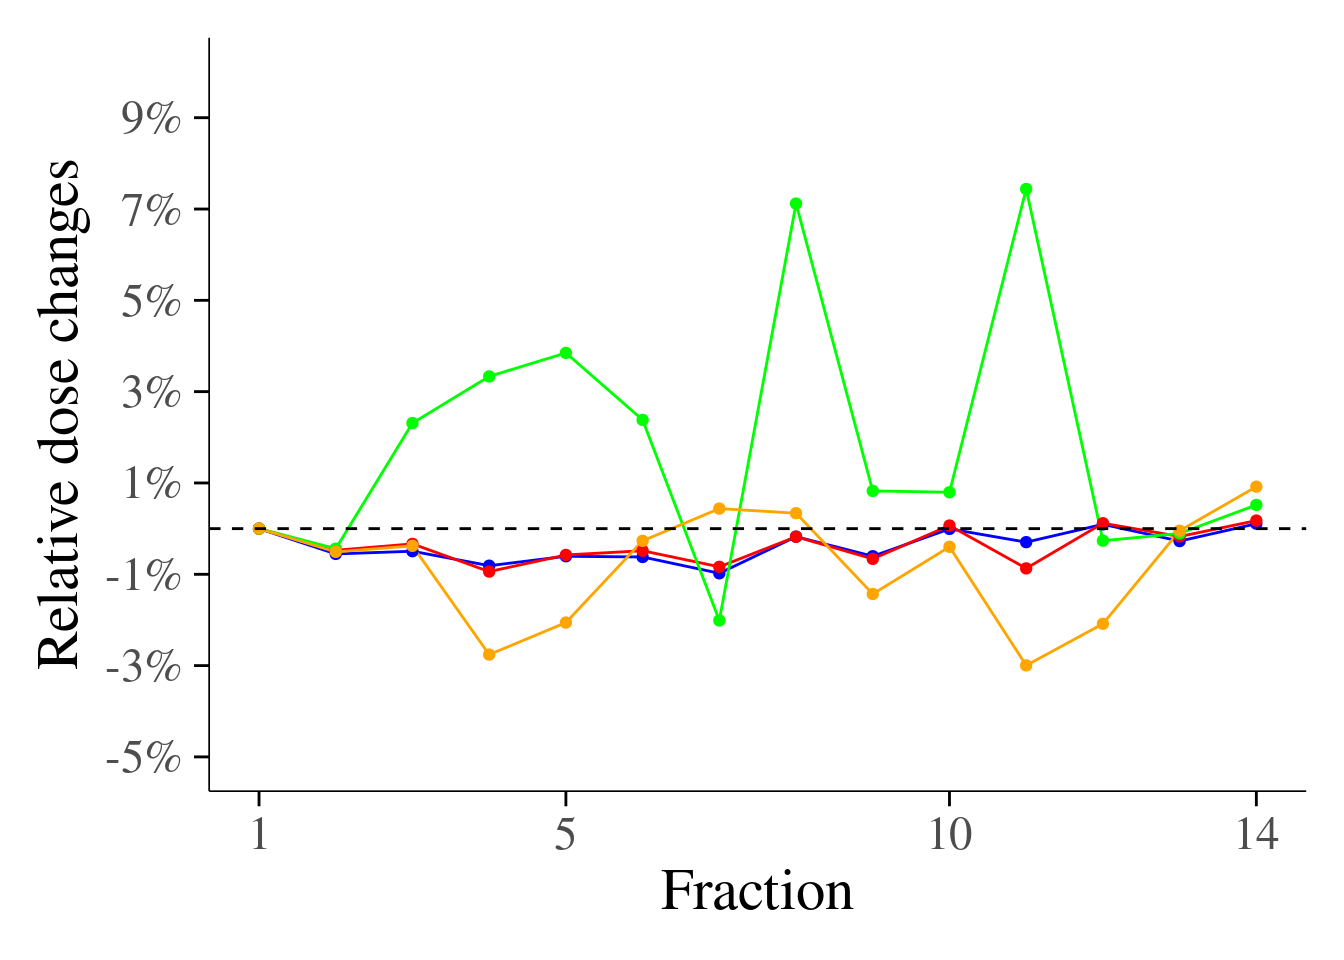
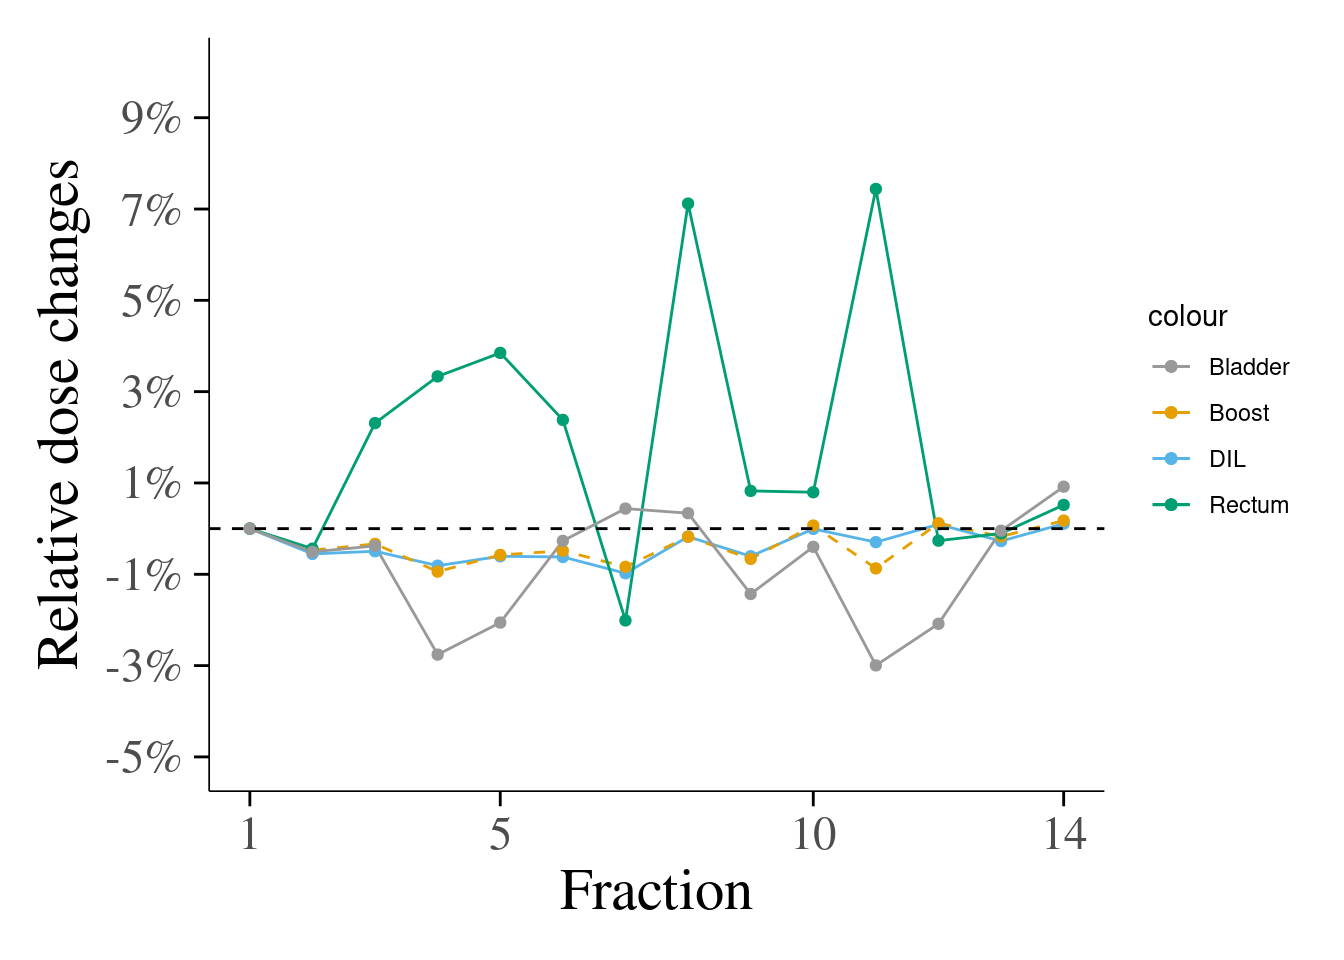
Build site.

diff --git a/docs/relativ.html b/docs/relativ.html
@@ -513,16 +513,16 @@ This reproducible <a href="http://rmarkdown.rstudio.com">R Markdown</a> analysis
 <div class="panel panel-default">
 <div class="panel-heading">
 <p class="panel-title">
-<a data-toggle="collapse" data-parent="#workflowr-checks" href="#strongRepositoryversionstrongahrefhttpsgithubcomdssrttnTesttree818bb4fb8f9efbc712783611d7f66f19ecb0ab3etargetblank818bb4fa"> <span class="glyphicon glyphicon-ok text-success" aria-hidden="true"></span> <strong>Repository version:</strong> <a href="https://github.com/dssrttn/Test/tree/818bb4fb8f9efbc712783611d7f66f19ecb0ab3e" target="_blank">818bb4f</a> </a>
+<a data-toggle="collapse" data-parent="#workflowr-checks" href="#strongRepositoryversionstrongahrefhttpsgithubcomdssrttnTesttreef5dc27a5d22ee65aba16500de01fa5284152e5b2targetblankf5dc27aa"> <span class="glyphicon glyphicon-ok text-success" aria-hidden="true"></span> <strong>Repository version:</strong> <a href="https://github.com/dssrttn/Test/tree/f5dc27a5d22ee65aba16500de01fa5284152e5b2" target="_blank">f5dc27a</a> </a>
 </p>
 </div>
[2 lines of base64/hex data omitted]
 <div class="panel-body">
 <p>
 Great! You are using Git for version control. Tracking code development and connecting the code version to the results is critical for reproducibility.
 </p>
 <p>
-The results in this page were generated with repository version <a href="https://github.com/dssrttn/Test/tree/818bb4fb8f9efbc712783611d7f66f19ecb0ab3e" target="_blank">818bb4f</a>. See the <em>Past versions</em> tab to see a history of the changes made to the R Markdown and HTML files.
+The results in this page were generated with repository version <a href="https://github.com/dssrttn/Test/tree/f5dc27a5d22ee65aba16500de01fa5284152e5b2" target="_blank">f5dc27a</a>. See the <em>Past versions</em> tab to see a history of the changes made to the R Markdown and HTML files.
 </p>
 <p>
 Note that you need to be careful to ensure that all relevant files for the analysis have been committed to Git prior to generating the results (you can use <code>wflow_publish</code> or <code>wflow_git_commit</code>). workflowr only checks the R Markdown file, but you know if there are other scripts or data files that it depends on. Below is the status of the Git repository when the results were generated:
@@ -589,6 +589,40 @@ Message
 </tr>
 </thead>
 <tbody>
+<tr>
+<td>
+Rmd
+</td>
+<td>
+<a href="https://github.com/dssrttn/Test/blob/f5dc27a5d22ee65aba16500de01fa5284152e5b2/analysis/relativ.Rmd" target="_blank">f5dc27a</a>
+</td>
+<td>
+Mein Vorname
+</td>
+<td>
+2020-07-19
+</td>
+<td>
+color blind colors
+</td>
+</tr>
+<tr>
+<td>
+html
+</td>
+<td>
+<a href="https://rawcdn.githack.com/dssrttn/Test/8d64b6fddeefab9626afefc92f394bf9a665e109/docs/relativ.html" target="_blank">8d64b6f</a>
+</td>
+<td>
+Mein Vorname
+</td>
+<td>
+2020-07-19
+</td>
+<td>
+Build site.
+</td>
+</tr>
 <tr>
 <td>
 Rmd
@@ -2024,6 +2058,43 @@ Mein Vorname
   xlab(&quot;Fraction&quot;) + # X-Achsen-Beschriftung
   ylab(&quot;Relative dose changes&quot;)   #+ # Y-Achsen-Beschriftung</code></pre>
 <p><img src="figure/relativ.Rmd/Relative%20dose%20changes%20in%20percent%20from%20the%201st%20fraction%20with%20DIL%20and%20boost%20mean%20POINTS-1.png" width="672" style="display: block; margin: auto;" /></p>
+<p>
+<button type="button" class="btn btn-default btn-xs btn-workflowr btn-workflowr-fig" data-toggle="collapse" data-target="#fig-no-spaces-Relative-dose-changes-in-percent-from-the-1st-fraction-with-DIL-and-boost-mean-POINTS-1">
+Past versions of “Relative dose changes in percent from the 1st fraction with DIL and boost mean POINTS-1.png”
+</button>
+</p>
+<div id="fig-no-spaces-Relative-dose-changes-in-percent-from-the-1st-fraction-with-DIL-and-boost-mean-POINTS-1" class="collapse">
+<div class="table-responsive">
+<table class="table table-condensed table-hover">
+<thead>
+<tr>
+<th>
+Version
+</th>
+<th>
+Author
+</th>
+<th>
+Date
+</th>
+</tr>
+</thead>
+<tbody>
+<tr>
+<td>
+<a href="https://github.com/dssrttn/Test/blob/8d64b6fddeefab9626afefc92f394bf9a665e109/docs/figure/relativ.Rmd/Relative dose changes in percent from the 1st fraction with DIL and boost mean POINTS-1.png" target="_blank">8d64b6f</a>
+</td>
+<td>
+Mein Vorname
+</td>
+<td>
+2020-07-19
+</td>
+</tr>
+</tbody>
+</table>
+</div>
+</div>
 <pre class="r"><code>#print(p)
     
 
@@ -2325,17 +2396,22 @@ Mein Vorname
 </table>
 </div>
 </div>
-<pre class="r"><code>ggplot() + 
-  geom_line(data = DIL_mean_rel_table, aes(x = 1:14, y = DIL_mean_rel$relchange), color = &quot;blue&quot;) +
-  geom_line(data = Boost_mean_rel_table , aes(x = 1:14, y = Boost_mean_rel$relchange), color = &quot;red&quot;) +
-  geom_line(data = Rectum_mean_rel_table , aes(x = 1:14, y = Rectum_mean_rel$relchange), color = &quot;green&quot;) +
-    geom_line(data = Bladder_mean_rel_table, aes(x = 1:14, y = Bladder_mean_rel$relchange), color = &quot;orange&quot;) +
-     # geom_point() +
- geom_point(data = DIL_mean_rel_table, aes(x = 1:14, y = DIL_mean_rel$relchange), color = &quot;blue&quot;) +
-  geom_point(data = Boost_mean_rel_table , aes(x = 1:14, y = Boost_mean_rel$relchange), color = &quot;red&quot;) +
- geom_point(data = Rectum_mean_rel_table , aes(x = 1:14, y = Rectum_mean_rel$relchange), color = &quot;green&quot;) +
-   geom_point(data = Bladder_mean_rel_table, aes(x = 1:14, y = Bladder_mean_rel$relchange), color = &quot;orange&quot;) +
+<pre class="r"><code># The Color Universal Design from the University of Tokyo proposes the following palettes:
+# The palette with grey from:
+cbPalette &lt;- c(&quot;#999999&quot;, &quot;#E69F00&quot;, &quot;#56B4E9&quot;, &quot;#009E73&quot;, &quot;#F0E442&quot;, &quot;#0072B2&quot;, &quot;#D55E00&quot;, &quot;#CC79A7&quot;)
+
+ggplot() + 
+  geom_line(data = DIL_mean_rel_table, aes(x = 1:14, y = DIL_mean_rel$relchange, color = &quot;DIL&quot;)) +
+  geom_line(data = Boost_mean_rel_table , linetype = &quot;dashed&quot;, aes(x = 1:14, y = Boost_mean_rel$relchange, color = &quot;Boost&quot;)) +
+  geom_line(data = Rectum_mean_rel_table , aes(x = 1:14, y = Rectum_mean_rel$relchange, color = &quot;Rectum&quot;)) +
+    geom_line(data = Bladder_mean_rel_table, aes(x = 1:14, y = Bladder_mean_rel$relchange, color = &quot;Bladder&quot;)) +
   
+ geom_point(data = DIL_mean_rel_table, aes(x = 1:14, y = DIL_mean_rel$relchange, color = &quot;DIL&quot;)) +
+  geom_point(data = Boost_mean_rel_table , aes(x = 1:14, y = Boost_mean_rel$relchange, color = &quot;Boost&quot;)) +
+ geom_point(data = Rectum_mean_rel_table , aes(x = 1:14, y = Rectum_mean_rel$relchange, color = &quot;Rectum&quot;)) +
+   geom_point(data = Bladder_mean_rel_table, aes(x = 1:14, y = Bladder_mean_rel$relchange, color = &quot;Bladder&quot;)) +
+  scale_colour_manual(values=cbPalette) +  # To use for line and point colors, add
+
   expand_limits(y = c(-5, 10)) +
   scale_y_continuous(breaks = seq(-5, 10, 2.0), labels=function(x) paste0(x,&quot;%&quot;)) + #labels=function(x) paste0(x,&quot;%&quot;) adds percent symbol, but without multiplying it with 100, like when one does: scale_y_continuous(labels = scales::percent)
   
@@ -2357,6 +2433,43 @@ Mein Vorname
   xlab(&quot;Fraction&quot;) + # X-Achsen-Beschriftung
   ylab(&quot;Relative dose changes&quot;)   #+ # Y-Achsen-Beschriftung</code></pre>
 <p><img src="figure/relativ.Rmd/Relative%20dose%20changes%20in%20percen%20from%20the%201st%20fraction%20with%20DIL%20and%20boost%20mean%20lines-1.png" width="672" style="display: block; margin: auto;" /></p>
+<p>
+<button type="button" class="btn btn-default btn-xs btn-workflowr btn-workflowr-fig" data-toggle="collapse" data-target="#fig-no-spaces-Relative-dose-changes-in-percen-from-the-1st-fraction-with-DIL-and-boost-mean-lines-1">
+Past versions of “Relative dose changes in percen from the 1st fraction with DIL and boost mean lines-1.png”
+</button>
+</p>
+<div id="fig-no-spaces-Relative-dose-changes-in-percen-from-the-1st-fraction-with-DIL-and-boost-mean-lines-1" class="collapse">
+<div class="table-responsive">
+<table class="table table-condensed table-hover">
+<thead>
+<tr>
+<th>
+Version
+</th>
+<th>
+Author
+</th>
+<th>
+Date
+</th>
+</tr>
+</thead>
+<tbody>
+<tr>
+<td>
+<a href="https://github.com/dssrttn/Test/blob/8d64b6fddeefab9626afefc92f394bf9a665e109/docs/figure/relativ.Rmd/Relative dose changes in percen from the 1st fraction with DIL and boost mean lines-1.png" target="_blank">8d64b6f</a>
+</td>
+<td>
+Mein Vorname
+</td>
+<td>
+2020-07-19
+</td>
+</tr>
+</tbody>
+</table>
+</div>
+</div>
 <pre class="r"><code>plot(Rectum_mean_rel$relchange, DIL_mean_rel$relchange)</code></pre>
 <p><img src="figure/relativ.Rmd/linear%20regression%20Rectum%20DIL%20means-1.png" width="672" style="display: block; margin: auto;" /></p>
 <p>
